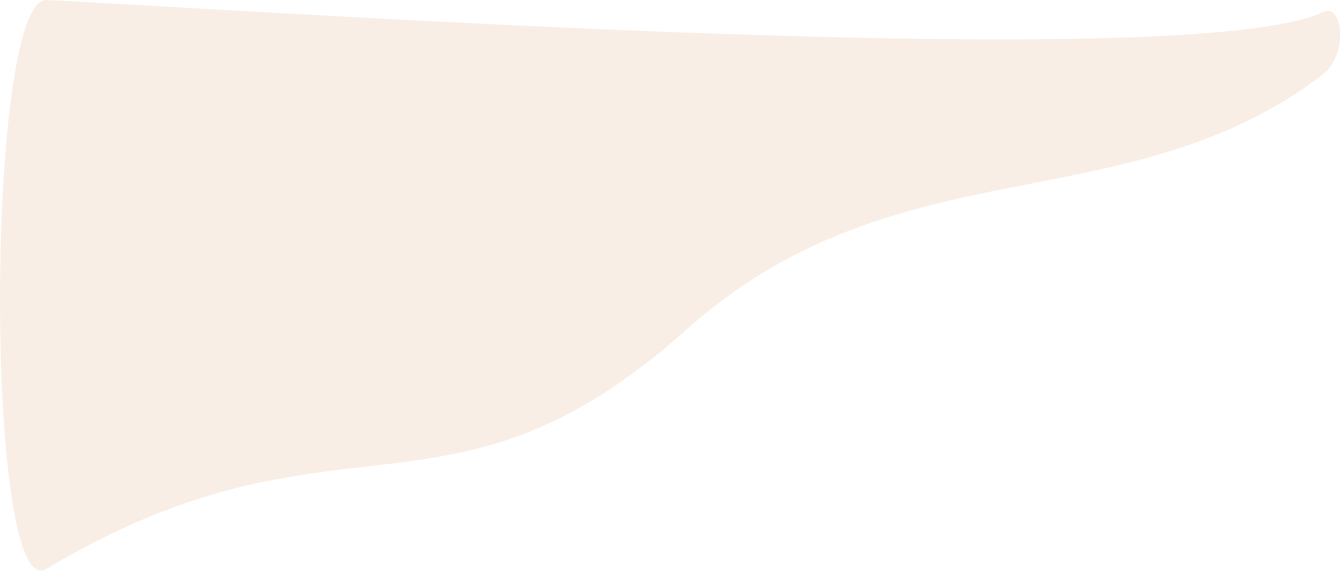
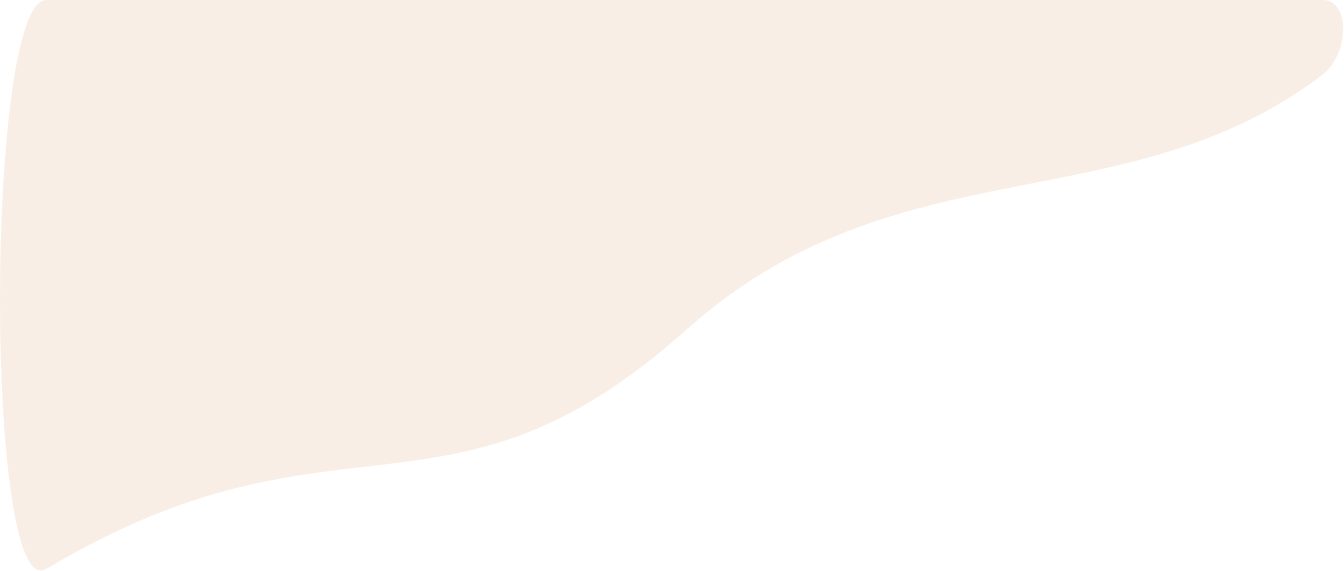
Following changes apply to the Landing Page
- Updated gradient background for Our Solutions
- Updated Get Invovled to include background blob

Changed region(s): [[0.0611, 0.0, 1.0, 0.0893]]

diff --git a/index.html b/index.html
@@ -12,6 +12,7 @@
     <!-- Place <link> tags below -->
     <link rel="stylesheet" href="./css/normalize.css">
     <link rel="stylesheet" href="./css/styles.css">
+    <link rel="stylesheet" href="./css/index.css">
     <link href="https://fonts.googleapis.com/css?family=Muli:200,400,700|Cormorant+Garamond:400,700" rel="stylesheet">
     <link rel="shortcut icon" type="image/png" href="./assets/favicon.png">
 
@@ -55,8 +56,8 @@
         </figure>
       </section>
       
-      <section class="u-marginTop-base7x u-background-gradient-whiteBrand">
-        <div class="u-maxWidth-800px u-marginRightLeft-auto u-paddingRightLeft-base">
+      <section class="u-marginTop-base7x u-background-gradient-whiteBrand solutions-container">
+        <div class="u-maxWidth-800px u-marginRightLeft-auto u-paddingRightLeft-base solutionsBreakdown-container">
           <h2 class="u-textAlign-center">Our Solutions</h2>
           <section class="u-marginTop-base3x flexContainer is-wrapReverse is-justifyContent-spaceAround">
             <div class="u-paddingTopBottom-base u-minMaxWidth-320px flexContainer is-column is-justifyContent-center">
@@ -89,44 +90,49 @@
           </section>
         </div>
 
-        <div class="u-textAlign-center u-marginTop-base7x u-paddingTopBottom-base21x u-paddingRightLeft-base u-fontColor-white u-background-darkGrey">
+        <div class="u-textAlign-center u-marginTop-base7x u-paddingTopBottom-base21x u-paddingRightLeft-base u-fontColor-white u-background-darkGrey solutionsSuccess-container">
           <p>
           <span class="u-fontColor-brandDark u-fontWeight-700 ">70%</span> of our startups have gone 
             <br/>on to raise a seed round
           </p>
         </div>
+
+        <img src="./assets/landingPage-ourSolutions-background.png" alt="Background gradient" aria-hide="true" class="solutions-background">
       </section>
 
-      <section class="u-marginTop-base7x u-marginRightLeft-auto u-maxWidth-800px u-width-fill">
-        <div class="u-paddingRightLeft-base">
-          <h2>Get Involved</h2>
-          <div class="u-marginTop-base3x">
-            <a href="./startups.html">Join Our Startups →</a>
+      <section class="getInvolved-container">
+        <div class="u-marginRightLeft-auto u-maxWidth-800px u-width-fill">
+          <div class="u-paddingRightLeft-base getInvolved-links-container">
+            <h2>Get Involved</h2>
+            <div class="u-marginTop-base3x">
+              <a href="./startups.html">Join Our Startups →</a>
+            </div>
+            <div class="u-marginTop-base3x">
+              <a href="./consultants.html">Join Our Consultants →</a>
+            </div>
           </div>
-          <div class="u-marginTop-base3x">
-            <a href="./consultants.html">Join Our Consultants →</a>
+          <div class="u-marginTop-base7x u-marginLeft-auto u-maxWidth-420px u-width-fill getInvolved-form-container">
+            <div class="u-marginRightLeft-base">
+              <p>Or contact us about partnerships. We’re also all ears if you just want to say hello :)</p>
+              <form id="contact" class="u-marginTop-base3x u-width-fill">
+                <div class="u-marginTop-base3x">
+                  <label for="name">Name</label><br/>
+                  <input type="text" id="name" required class="u-marginTop-base u-width-fill">
+                </div>
+                <div class="u-marginTop-base3x">
+                  <label for="email">Email</label><br/>
+                  <input type="text" id="name" required class="u-marginTop-base u-width-fill">
+                </div>
+                <div class="u-marginTop-base3x">
+                  <label for="message">Message</label><br/>
+                  <textarea id="message" required class="u-marginTop-base u-width-fill u-height-112px"></textarea>
+                </div>
+                <button type="submit" form="contact" value="Submit" class="u-marginTop-base3x">Submit</button>
+              </form>
+            </div>
           </div>
         </div>
-        <div class="u-marginTop-base7x u-marginLeft-auto u-maxWidth-420px u-width-fill">
-          <div class="u-marginRightLeft-base">
-            <p>Or contact us about partnerships. We’re also all ears if you just want to say hello :)</p>
-            <form id="contact" class="u-marginTop-base3x u-width-fill">
-              <div class="u-marginTop-base3x">
-                <label for="name">Name</label><br/>
-                <input type="text" id="name" required class="u-marginTop-base u-width-fill">
-              </div>
-              <div class="u-marginTop-base3x">
-                <label for="email">Email</label><br/>
-                <input type="text" id="name" required class="u-marginTop-base u-width-fill">
-              </div>
-              <div class="u-marginTop-base3x">
-                <label for="message">Message</label><br/>
-                <textarea id="message" required class="u-marginTop-base u-width-fill u-height-112px"></textarea>
-              </div>
-              <button type="submit" form="contact" value="Submit" class="u-marginTop-base3x">Submit</button>
-            </form>
-          </div>
-        </div>
+        <img src="./assets/getInvolved-backgroundBlob.png" alt="Abstract background shape" aria-hidden="true" class="getInvolved-backgroundBlob">
       </section>
     </main>
 

diff --git a/css/styles.css b/css/styles.css
@@ -5,6 +5,7 @@
  * */
 
 html {
+  overflow-x: hidden;
   background: rgb(0,0,0);
 }
 
@@ -15,6 +16,7 @@ html {
  * */
 
 body {
+  overflow-x: hidden;
   background: rgb(255,255,255);
   border: 4px solid rgb(0,0,0);
 }
@@ -416,4 +418,26 @@ p {
 
 .u-fontColor-brandDark {
   color: rgba(194,87,0,1);
+}
+
+/* 
+ * --------------------------------------------------------
+ * getInvovled
+ * --------------------------------------------------------
+ * */
+
+.getInvolved-container {
+  position: relative;
+  padding-top: 112px;
+}
+
+.getInvolved-form-container, .getInvolved-links-container {
+  position: relative;
+  z-index: 100;
+}
+
+.getInvolved-backgroundBlob {
+  position: absolute;
+  top: 0;
+  left: -56px;
 }

diff --git a/css/about.css b/css/about.css
@@ -1,7 +1,3 @@
-html, body {
-  overflow-x: hidden;
-}
-
 /* 
  * --------------------------------------------------------
  * banner
@@ -138,26 +134,4 @@ html, body {
   .team-backgroundBlob {
     left: -280px;
   }
-}
-
-/* 
- * --------------------------------------------------------
- * getInvovled
- * --------------------------------------------------------
- * */
-
-.getInvolved-container {
-  position: relative;
-  padding-top: 112px;
-}
-
-.getInvolved-form-container, .getInvolved-links-container {
-  position: relative;
-  z-index: 100;
-}
-
-.getInvolved-backgroundBlob {
-  position: absolute;
-  top: 0;
-  left: -56px;
 }

diff --git a/css/index.css b/css/index.css
@@ -1,0 +1,20 @@
+/* 
+ * --------------------------------------------------------
+ * Solutions
+ * --------------------------------------------------------
+ * */
+.solutions-container {
+  position: relative;
+}
+
+.solutionsBreakdown-container, .solutionsSuccess-container {
+  position: relative;
+  z-index: 100;
+}
+
+.solutions-background {
+  position: absolute;
+  top: 0;
+  width: 100%;
+  height: 100%
+}

diff --git a/about.html b/about.html
@@ -119,7 +119,7 @@
             </div>
           </div>
         </div>
-        <img src="./assets/getInvolved-backgroundBlob.png" alt="Abstract background shape" aria-hidden="true" class="getInvolved-backgroundBlob">
+        <img src="./assets/getInvolved-backgroundBlob-curvedTop.png" alt="Abstract background shape" aria-hidden="true" class="getInvolved-backgroundBlob">
       </section>
     </main>
 
